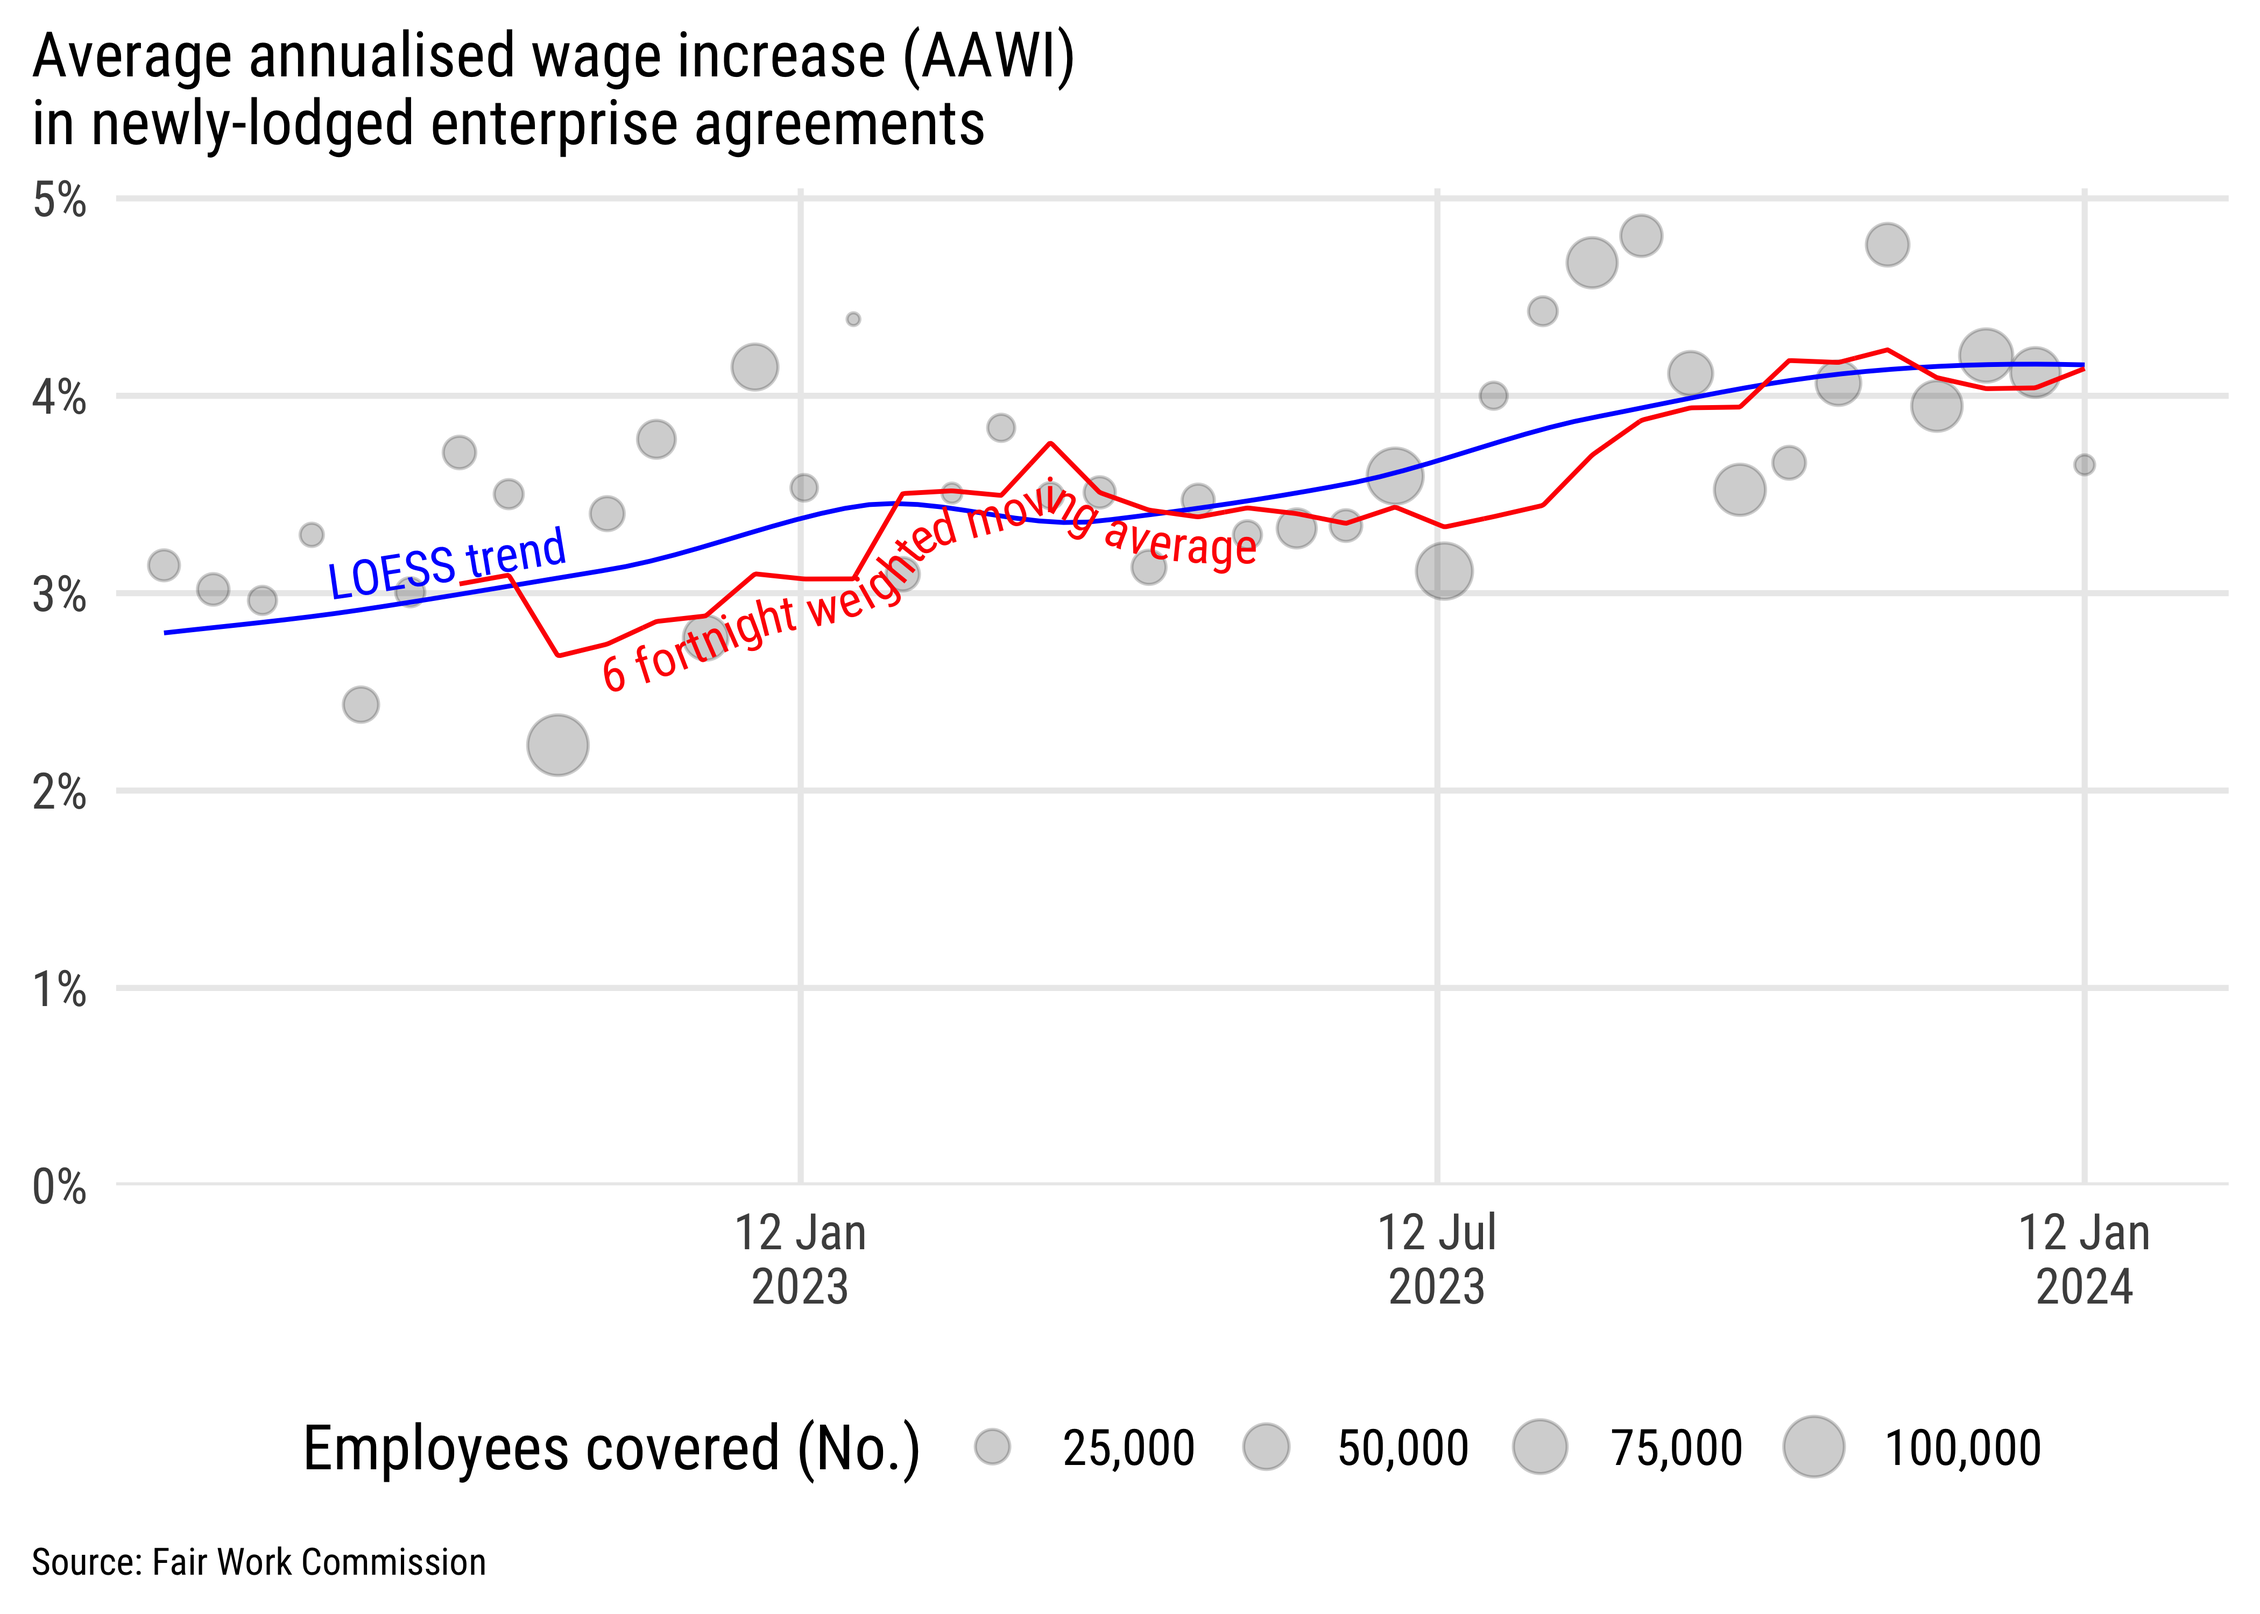
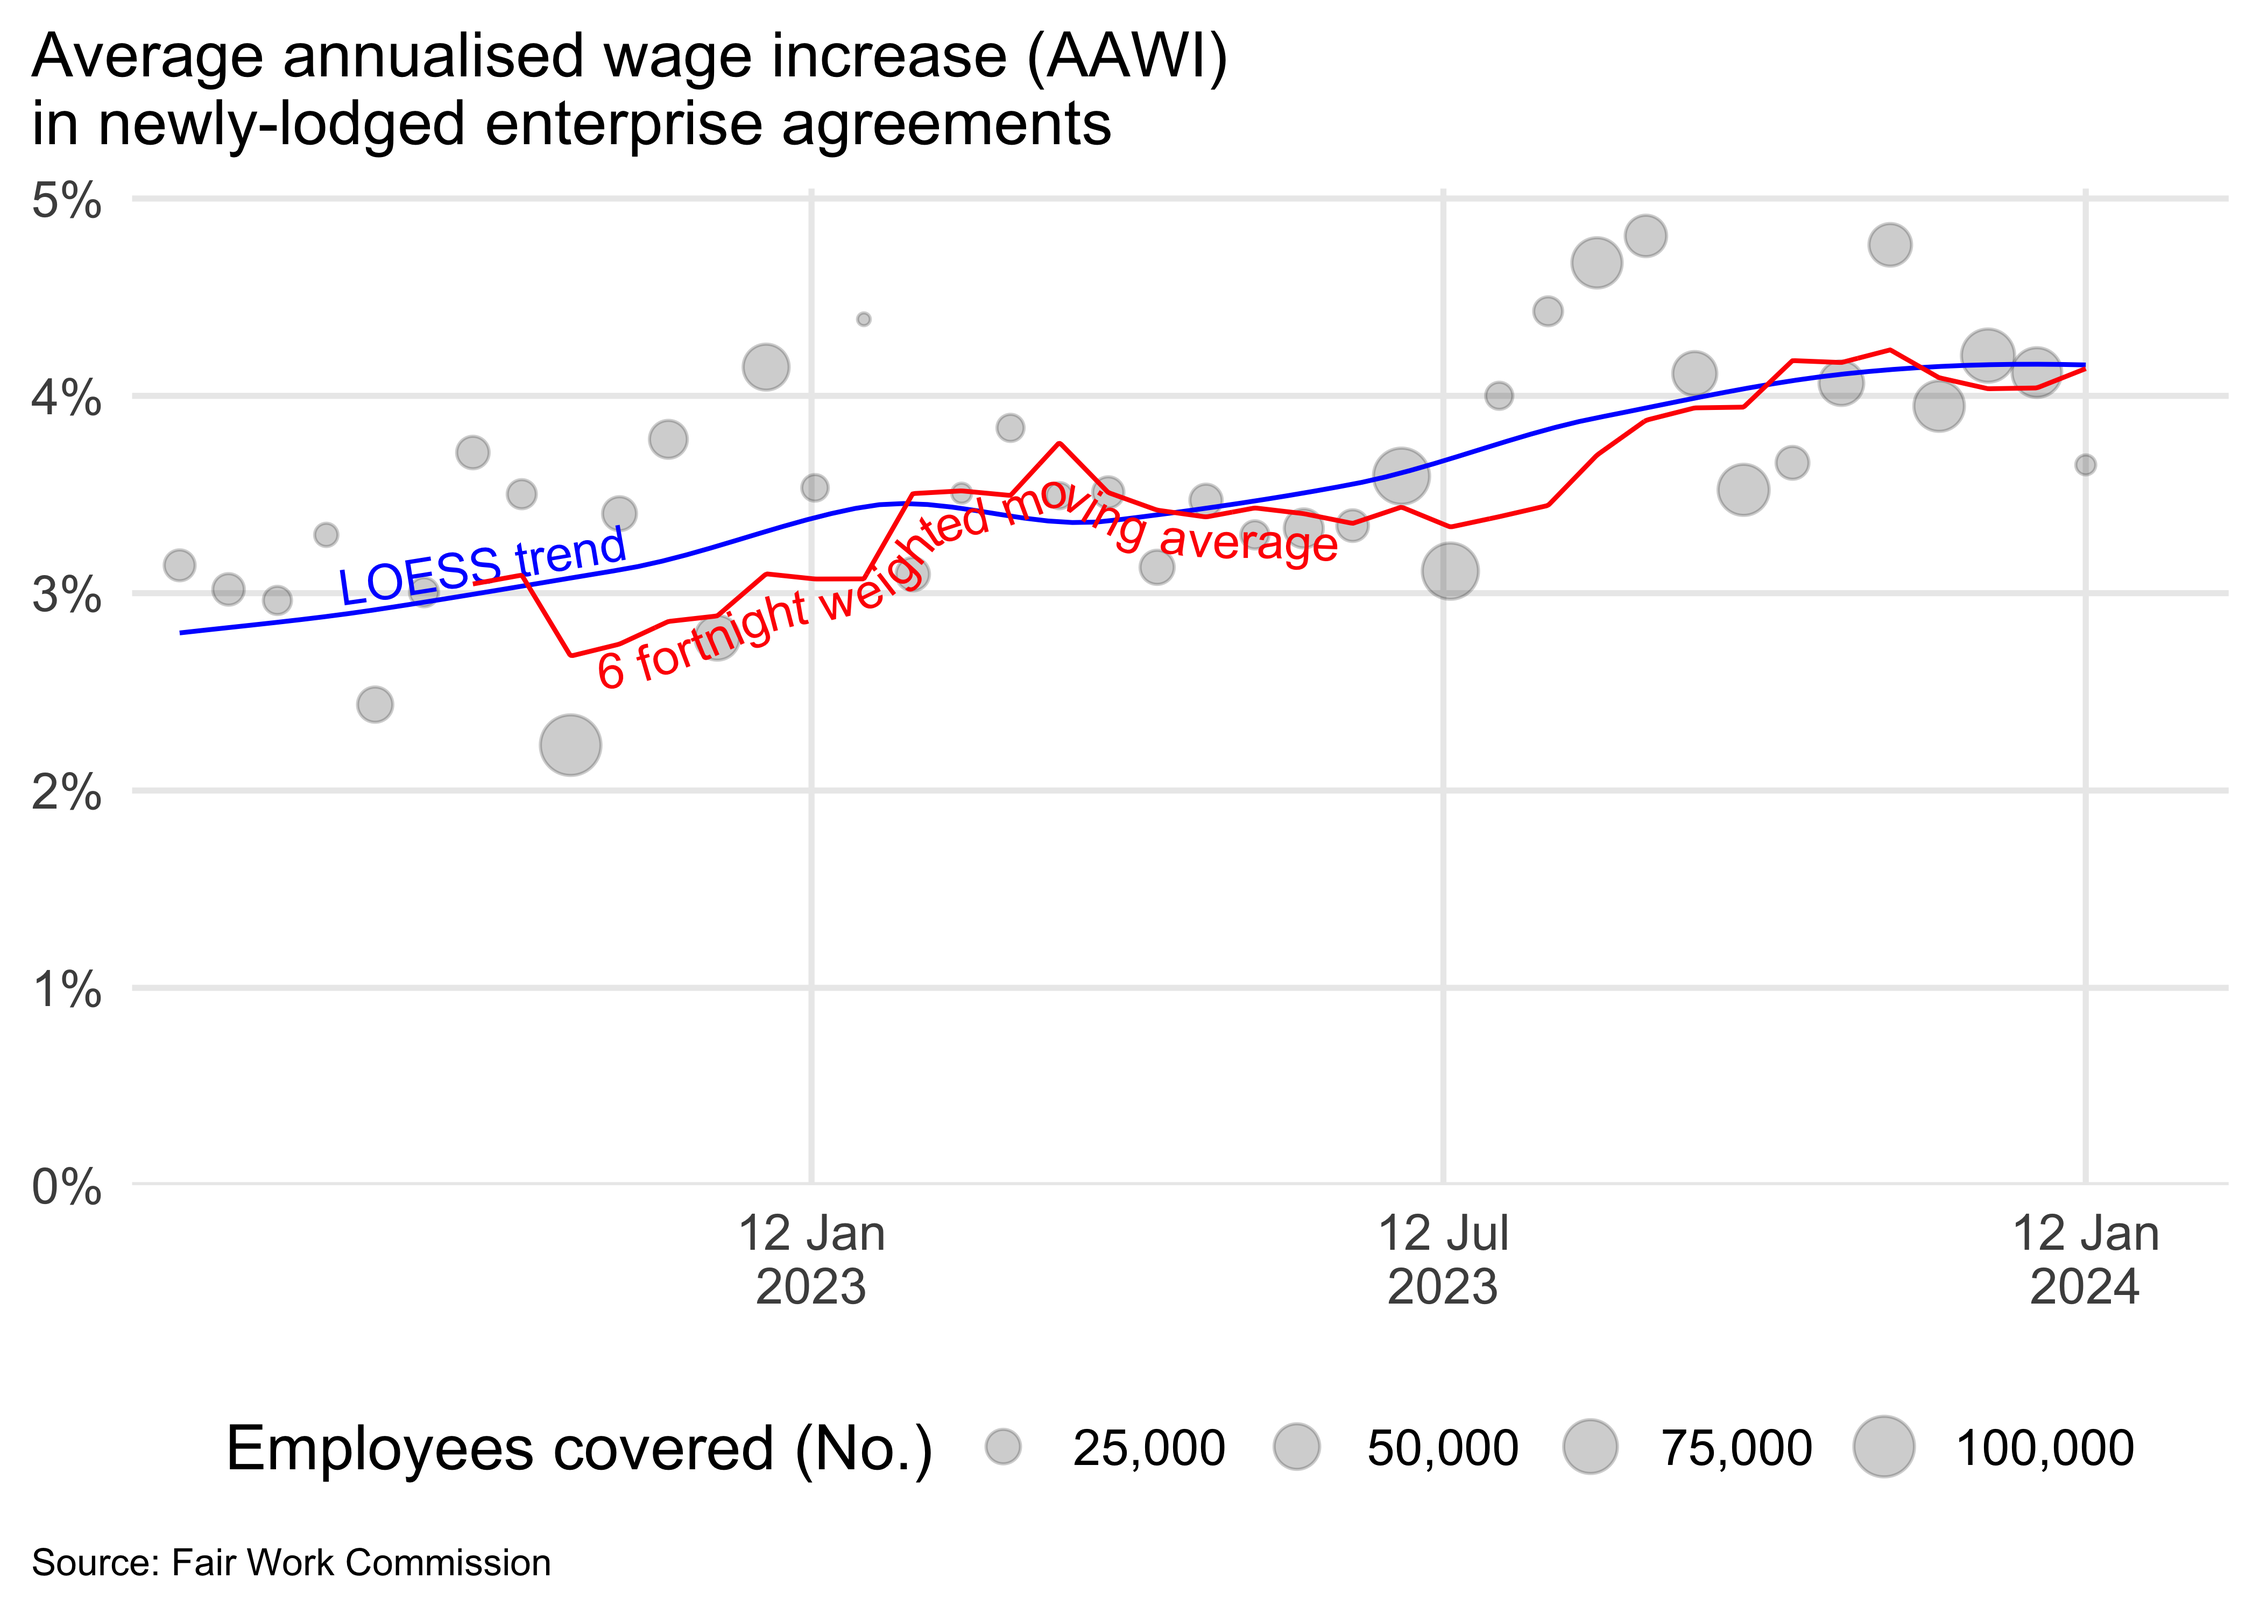
drop roboto condensed from readme

diff --git a/README.md b/README.md
@@ -56,8 +56,7 @@ fwc
 It’s straightforward to visualise!
 
 ``` r
-my_theme <- theme_minimal(base_family = "Roboto Condensed",
-                          base_size = 14) +
+my_theme <- theme_minimal(base_size = 14) +
   theme(panel.grid.minor = element_blank(),
         axis.title = element_blank(),
         plot.caption.position = "plot",
@@ -103,7 +102,6 @@ fwc |>
                                 vjust = -0.2,
               formula = y ~ x,
               colour = "blue",
-              family = "Roboto Condensed",
               se = FALSE) +
   geomtextpath::geom_textline(aes(y = slider::slide2_dbl(.x = `AAWI (%)`,
                                        .y = `Employees covered (No.)`,
@@ -114,7 +112,6 @@ fwc |>
             na.rm = TRUE,
             label = "6 fortnight weighted moving average",
             text_smoothing = 40,
-            family = "Roboto Condensed",
             hjust = 0.15,
             vjust = 1.2,
             colour = "red") +
